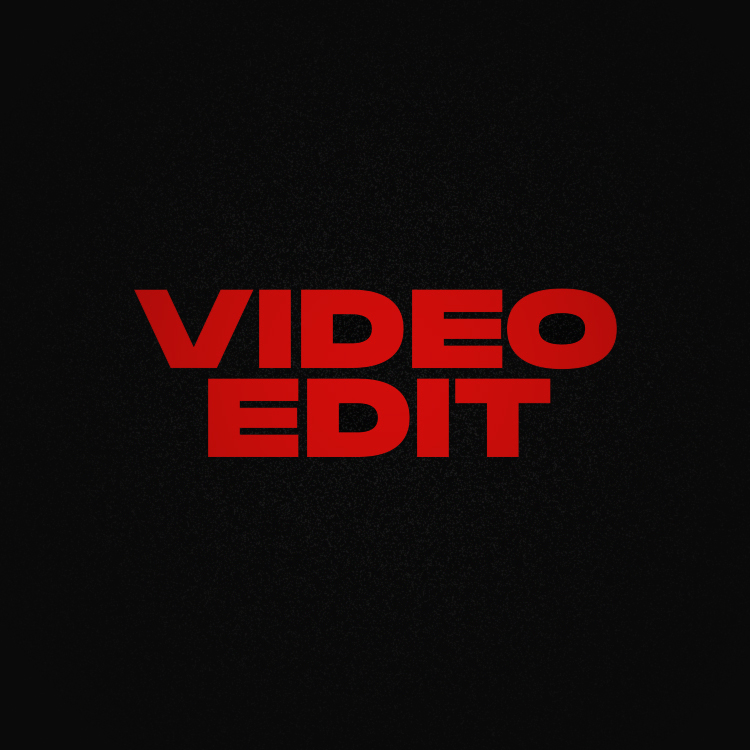
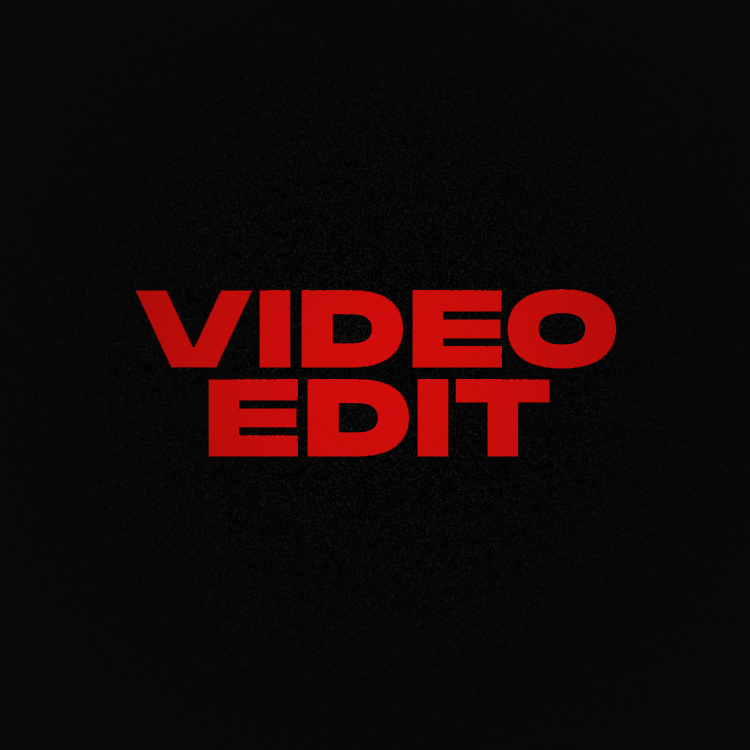
Redesign Contact page and refine footer, flash and portrait treatment

diff --git a/contact.html b/contact.html
@@ -41,9 +41,10 @@
   <link rel="canonical" href="https://heif.work/contact.html">
   <meta property="og:url" content="https://heif.work/contact.html">
   <link rel="stylesheet" href="assets/css/print.css?v=20261108-1" media="print">
-<link rel="stylesheet" href="assets/css/brand-motion.css?v=20261110-3">
+<link rel="stylesheet" href="assets/css/brand-motion.css?v=20261110-4">
 <link rel="preload" href="assets/fonts-web/embolism-spark.ttf" as="font" type="font/ttf" crossorigin>
 <script>document.documentElement.classList.add('brand-loading');setTimeout(function(){document.documentElement.classList.remove('brand-loading');},1800);</script>
+<link rel="stylesheet" href="assets/css/contact-studio.css?v=20261110-1">
 </head>
 
 <body>
@@ -83,47 +84,37 @@
 	</header>
 
 	<!-- Main Content -->
-	<main id="main-content">
-		<section class="contact-section" aria-labelledby="contact-heading">
-			<div class="container">
-				<h1 id="contact-heading" class="contact-title">CONTACT US</h1>
-				<div class="contact-grid">
-					<div class="contact-item glass-card">
-						<div class="icon-box">
-							<svg viewBox="0 0 24 24" fill="currentColor" aria-hidden="true" width="24" height="24">
-								<path
-									d="M12 2C8.13 2 5 5.13 5 9c0 5.25 7 13 7 13s7-7.75 7-13c0-3.87-3.13-7-7-7zm0 9.5c-1.38 0-2.5-1.12-2.5-2.5s1.12-2.5 2.5-2.5 2.5 1.12 2.5 2.5-1.12 2.5-2.5 2.5z" />
-							</svg>
-						</div>
-						<h2 class="contact-card-heading">Address</h2>
-						<p>Bhat, Ahmedabad, Gujarat, India</p>
-					</div>
-					<div class="contact-item glass-card">
-						<div class="icon-box">
-							<svg viewBox="0 0 24 24" fill="currentColor" aria-hidden="true" width="24" height="24">
-								<path
-									d="M20.01 15.38c-1.23 0-2.42-.2-3.53-.56-.35-.12-.74-.03-1.01.24l-1.57 1.97c-2.83-1.35-5.48-3.9-6.89-6.83l1.95-1.66c.27-.28.35-.67.24-1.02-.37-1.11-.56-2.3-.56-3.53 0-.54-.45-.99-.99-.99H4.19C3.65 3 3 3.24 3 3.99 3 13.28 10.73 21 20.01 21c.71 0 .99-.63.99-1.18v-3.45c0-.54-.45-.99-.99-.99z" />
-							</svg>
-						</div>
-						<h2 class="contact-card-heading">Call Us</h2>
-						<p><a href="tel:+919313113583">+91 9313113583</a><br><a href="tel:+917265804245">+91
-								7265804245</a></p>
-					</div>
-					<div class="contact-item glass-card">
-						<div class="icon-box">
-							<svg viewBox="0 0 24 24" fill="currentColor" aria-hidden="true" width="24" height="24">
-								<path
-									d="M20 4H4c-1.1 0-1.99.9-1.99 2L2 18c0 1.1.9 2 2 2h16c1.1 0 2-.9 2-2V6c0-1.1-.9-2-2-2zm0 4l-8 5-8-5V6l8 5 8-5v2z" />
-							</svg>
-						</div>
-						<h2 class="contact-card-heading">Send Your Mail</h2>
-						<p><a href="mailto:himuxgaming91@gmail.com">himuxgaming91@gmail.com</a><br><a
-								href="mailto:himalayeditor@gmail.com">himalayeditor@gmail.com</a></p>
-					</div>
-				</div>
-			</div>
-		</section>
-	</main>
+	<main id="main-content" class="contact-studio">
+  <section class="contact-compose" aria-labelledby="contact-heading">
+    <div class="contact-story reveal">
+      <p class="contact-eyebrow"><span></span> CONTACT / HEIF</p>
+      <h1 id="contact-heading">MAKE IT<br><em>HAPPEN</em></h1>
+      <p class="contact-lead">Your next idea deserves<br>a different point of view.</p>
+      <p class="contact-copy">A new release, a brand in the making, or a visual that needs a little more feeling. Tell me what you have in mind.</p>
+      <div class="contact-disciplines" aria-label="Creative services"><span>Design</span><span>Motion</span><span>Visuals</span></div>
+    </div>
+    <div class="contact-channels reveal">
+      <a class="contact-email" href="mailto:himalayeditor@gmail.com">
+        <span class="contact-channel-label">01 / START A CONVERSATION</span>
+        <span class="contact-email-line">himalayeditor@gmail.com <span class="contact-arrow"><svg viewBox="0 0 24 24" width="24" height="24" fill="none" stroke="currentColor" stroke-width="1.5" stroke-linecap="round" stroke-linejoin="round" aria-hidden="true"><path d="M5 19 19 5M5 5h14v14"/></svg></span></span>
+        <span class="contact-channel-note">Send your idea. Let’s build something together.</span>
+      </a>
+      <div class="contact-channel-row">
+        <h2>02 / CALL ME</h2>
+        <div><a href="tel:+919313113583">+91 93131 13583 <svg viewBox="0 0 24 24" width="24" height="24" fill="none" stroke="currentColor" stroke-width="1.5" stroke-linecap="round" stroke-linejoin="round" aria-hidden="true"><path d="M5 19 19 5M5 5h14v14"/></svg></a><a href="tel:+917265804245">+91 72658 04245 <svg viewBox="0 0 24 24" width="24" height="24" fill="none" stroke="currentColor" stroke-width="1.5" stroke-linecap="round" stroke-linejoin="round" aria-hidden="true"><path d="M5 19 19 5M5 5h14v14"/></svg></a></div>
+      </div>
+      <div class="contact-channel-row">
+        <h2>03 / FIND ME</h2>
+        <div><p>Bhat, Ahmedabad<br><span>Gujarat, India</span></p><a class="contact-social" href="https://www.instagram.com/wdym.heif/" target="_blank" rel="noopener noreferrer">Instagram <svg viewBox="0 0 24 24" width="24" height="24" fill="none" stroke="currentColor" stroke-width="1.5" stroke-linecap="round" stroke-linejoin="round" aria-hidden="true"><path d="M5 19 19 5M5 5h14v14"/></svg></a></div>
+      </div>
+      <div class="contact-secondary"><span>Alternate email</span><a href="mailto:himuxgaming91@gmail.com">himuxgaming91@gmail.com <svg viewBox="0 0 24 24" width="24" height="24" fill="none" stroke="currentColor" stroke-width="1.5" stroke-linecap="round" stroke-linejoin="round" aria-hidden="true"><path d="M5 19 19 5M5 5h14v14"/></svg></a></div>
+    </div>
+  </section>
+  <section class="contact-brief reveal" aria-labelledby="brief-heading">
+    <h2 id="brief-heading">A little context.<br><span>A better beginning.</span></h2>
+    <p><span>01</span> What are we creating?</p><p><span>02</span> Your timeline &amp; budget</p><p><span>03</span> References you love</p>
+  </section>
+</main>
 
 	<!-- Footer -->
 	<footer class="footer site-footer" role="contentinfo">
@@ -135,7 +126,7 @@
         </div>
         <div class="footer-action">
           <p>Design, motion &amp; visuals.<br>Bring your idea. Let's make it happen.</p>
-          <a class="footer-project-link" href="contact.html">Start a project <svg class="ui-arrow" viewBox="0 0 24 24" width="20" height="20" fill="none" stroke="currentColor" stroke-width="1.8" stroke-linecap="round" stroke-linejoin="round" aria-hidden="true" focusable="false"><path d="M7 17 17 7M7 7h10v10"/></svg></a>
+          <a class="footer-project-link" href="mailto:himalayeditor@gmail.com">Start a project <svg class="ui-arrow" viewBox="0 0 24 24" width="20" height="20" fill="none" stroke="currentColor" stroke-width="1.8" stroke-linecap="round" stroke-linejoin="round" aria-hidden="true" focusable="false"><path d="M7 17 17 7M7 7h10v10"/></svg></a>
         </div>
       </div>
       <div class="footer-details">

diff --git a/assets/css/contact-studio.css b/assets/css/contact-studio.css
@@ -1,0 +1,58 @@
+
+.contact-studio { position:relative; z-index:1; width:min(1200px,calc(100% - 64px)); margin:0 auto; padding:100px 0 64px; }
+.contact-compose { display:grid; grid-template-columns:1fr 1fr; gap:clamp(40px,7vw,100px); align-items:start; }
+.contact-eyebrow { display:flex; align-items:center; gap:10px; margin:0 0 30px; color:#a7b6ab; font:600 11px/1.4 'Josefin Sans',sans-serif; letter-spacing:.19em; }
+.contact-eyebrow span { width:6px; height:6px; border-radius:50%; background:#1ec24d; }
+.contact-story h1 { margin:0; color:#f1f6f2; font:400 clamp(36px,4.3vw,60px)/1.08 'Phonk Contrast',sans-serif; letter-spacing:-.035em; }
+.contact-story h1 em { display:inline-block; color:#1ec24d; font-style:normal; }
+.contact-lead { margin:28px 0 14px; color:#e8eee9; font-size:25px; line-height:1.3; }
+.contact-copy { max-width:390px; margin:0; color:#9caaa0; font-size:16px; line-height:1.8; }
+.contact-disciplines { display:flex; flex-wrap:wrap; gap:22px; margin-top:30px; color:#8ca693; font-size:12px; letter-spacing:.08em; text-transform:uppercase; }
+.contact-disciplines span+span::before { content:'/'; margin-right:22px; color:#1ec24d; }
+.contact-channels { min-width:0; padding-top:8px; }
+.contact-channels a { text-decoration:none; color:#edf4ef; transition:color .25s ease; }
+.contact-channels a:hover { color:#1ec24d; }
+.contact-channels a:focus-visible { outline:2px solid #1ec24d; outline-offset:6px; }
+.contact-email { display:block; padding:26px 26px 28px; border-radius:12px; background:#102318; border:1px solid #284733; }
+.contact-channel-label,.contact-channel-row h2 { font:600 10px/1.5 'Josefin Sans',sans-serif; letter-spacing:.13em; color:#82bb92; }
+.contact-email-line { display:flex; align-items:center; justify-content:space-between; gap:10px; margin:19px 0 12px; font-size:clamp(17px,1.8vw,24px); font-weight:600; letter-spacing:-.03em; }
+.contact-arrow { display:grid; place-items:center; flex:none; width:40px; height:40px; border-radius:50%; background:#1ec24d; color:#07110a; transition:transform .3s ease; }
+.contact-email:hover .contact-arrow { transform:rotate(45deg); }
+.contact-channel-note { display:block; color:#a1b4a7; font-size:13px; line-height:1.6; }
+.contact-channel-row { display:grid; grid-template-columns:1fr 1.6fr; gap:20px; padding:27px 0; border-bottom:1px solid #26322a; }
+.contact-channel-row h2 { margin:4px 0 0; color:#8d9d92; }
+.contact-channel-row a { display:flex; justify-content:space-between; align-items:center; gap:12px; min-height:34px; font-size:18px; }
+.contact-channel-row svg,.contact-secondary svg { width:15px; height:15px; flex:none; color:#7e9b87; transition:transform .25s ease; }
+.contact-channel-row a:hover svg,.contact-secondary a:hover svg { transform:translate(2px,-2px); }
+.contact-channel-row p { margin:0 0 10px; font-size:18px; line-height:1.55; color:#e0e9e3; }
+.contact-channel-row p span { color:#98a69c; font-size:15px; }
+.contact-channel-row .contact-social { font-size:14px; color:#95d5a7; }
+.contact-secondary { display:flex; flex-wrap:wrap; justify-content:space-between; gap:10px; margin-top:20px; font-size:12px; color:#84978a; }
+.contact-secondary a { display:flex; gap:10px; align-items:center; color:#aabcb0; }
+.contact-brief { display:grid; grid-template-columns:1.25fr 1fr 1fr 1fr; gap:24px; align-items:center; border-top:1px solid #29342d; padding-top:28px; margin-top:70px; }
+.contact-brief h2 { margin:0; font-size:18px; font-weight:600; line-height:1.45; color:#e9f0eb; }
+.contact-brief h2 span { color:#84988b; font-weight:400; }
+.contact-brief p { margin:0; color:#bdc9c1; font-size:14px; line-height:1.5; }
+.contact-brief p>span { display:block; margin-bottom:9px; color:#1ec24d; font-size:11px; }
+@media(max-width:900px) { .contact-compose { gap:36px; } .contact-email { padding:20px; } .contact-email-line { flex-wrap:wrap; } .contact-brief { grid-template-columns:1fr 1fr; } }
+@media(max-width:680px) {
+ .contact-studio { width:calc(100% - 40px); padding:90px 0 30px; }
+ .contact-compose { grid-template-columns:1fr; gap:38px; }
+ .contact-eyebrow { margin-bottom:22px; }
+ .contact-story h1 { font-size:clamp(32px,8.4vw,48px); }
+ .contact-lead { font-size:22px; margin-top:23px; }
+ .contact-copy { font-size:15px; }
+ .contact-disciplines { margin-top:22px; }
+ .contact-email-line { flex-wrap:nowrap; font-size:clamp(15px,4.4vw,21px); }
+ .contact-arrow { width:32px; height:32px; }
+ .contact-arrow svg { width:18px; height:18px; }
+ .contact-email { padding:20px 16px; }
+ .contact-channel-row { grid-template-columns:.8fr 1.5fr; gap:12px; padding:24px 0; }
+ .contact-channel-row a,.contact-channel-row p { font-size:16px; }
+ .contact-brief { margin-top:40px; gap:24px 16px; }
+ .contact-brief h2 { grid-column:1/-1; }
+ .contact-brief p { font-size:13px; }
+}
+@media(prefers-reduced-motion:reduce) { .contact-channels a,.contact-channels svg,.contact-arrow { transition:none; } }
+
+.contact-studio, .contact-studio h1, .contact-studio h2, .contact-studio p { text-align:left; }

diff --git a/index.html b/index.html
@@ -41,7 +41,7 @@
   <link rel="canonical" href="https://heif.work/">
   <meta property="og:url" content="https://heif.work/">
   <link rel="stylesheet" href="assets/css/print.css?v=20261108-1" media="print">
-<link rel="stylesheet" href="assets/css/brand-motion.css?v=20261110-3">
+<link rel="stylesheet" href="assets/css/brand-motion.css?v=20261110-4">
 <link rel="preload" href="assets/fonts-web/embolism-spark.ttf" as="font" type="font/ttf" crossorigin>
 <script>document.documentElement.classList.add('brand-loading');setTimeout(function(){document.documentElement.classList.remove('brand-loading');},1800);</script>
 </head>
@@ -163,8 +163,8 @@
         </a>
       </div>
       <div class="thumbnail">
-        <a href="work-detailvideowork.html"><img src="assets/optimized/category-video-20261110c-750.webp"
-            alt="Video editing portfolio showcase" loading="lazy" decoding="async" srcset="assets/optimized/category-video-20261110c-480.webp 480w, assets/optimized/category-video-20261110c-750.webp 750w" sizes="(max-width: 600px) 100vw, (max-width: 1024px) 50vw, 33vw" width="750" height="750" />
+        <a href="work-detailvideowork.html"><img src="assets/optimized/category-video-20261110d-750.webp"
+            alt="Video editing portfolio showcase" loading="lazy" decoding="async" srcset="assets/optimized/category-video-20261110d-480.webp 480w, assets/optimized/category-video-20261110d-750.webp 750w" sizes="(max-width: 600px) 100vw, (max-width: 1024px) 50vw, 33vw" width="750" height="750" />
           <div class="caption">VIDEO EDITING</div>
         </a>
       </div>

diff --git a/work.html b/work.html
@@ -42,7 +42,7 @@
   <link rel="canonical" href="https://heif.work/work.html">
   <meta property="og:url" content="https://heif.work/work.html">
   <link rel="stylesheet" href="assets/css/print.css?v=20261108-1" media="print">
-<link rel="stylesheet" href="assets/css/brand-motion.css?v=20261110-3">
+<link rel="stylesheet" href="assets/css/brand-motion.css?v=20261110-4">
 <link rel="preload" href="assets/fonts-web/embolism-spark.ttf" as="font" type="font/ttf" crossorigin>
 <script>document.documentElement.classList.add('brand-loading');setTimeout(function(){document.documentElement.classList.remove('brand-loading');},1800);</script>
 </head>
@@ -125,8 +125,8 @@
             </div>
             <div class="thumbnail">
                 <a href="work-detailvideowork.html">
-                    <img src="assets/optimized/category-video-20261110c-750.webp" alt="Video Editing Portfolio" loading="lazy"
-                        decoding="async" srcset="assets/optimized/category-video-20261110c-480.webp 480w, assets/optimized/category-video-20261110c-750.webp 750w" sizes="(max-width: 1024px) 50vw, 33vw" width="750" height="750">
+                    <img src="assets/optimized/category-video-20261110d-750.webp" alt="Video Editing Portfolio" loading="lazy"
+                        decoding="async" srcset="assets/optimized/category-video-20261110d-480.webp 480w, assets/optimized/category-video-20261110d-750.webp 750w" sizes="(max-width: 1024px) 50vw, 33vw" width="750" height="750">
                     <div class="caption">VIDEO EDITING</div>
                 </a>
             </div>

diff --git a/about.html b/about.html
@@ -43,14 +43,15 @@
   <link rel="canonical" href="https://heif.work/about.html">
   <meta property="og:url" content="https://heif.work/about.html">
   <link rel="stylesheet" href="assets/css/print.css?v=20261108-1" media="print">
-<link rel="stylesheet" href="assets/css/brand-motion.css?v=20261110-3">
+<link rel="stylesheet" href="assets/css/brand-motion.css?v=20261110-4">
 <link rel="preload" href="assets/fonts-web/embolism-spark.ttf" as="font" type="font/ttf" crossorigin>
 <script>document.documentElement.classList.add('brand-loading');setTimeout(function(){document.documentElement.classList.remove('brand-loading');},1800);</script>
 <style>
 .about-layout .about-portrait { max-width:380px; }
 @media(max-width:768px) { .about-layout .about-portrait { width:90%; max-width:300px; } }
-.about-video-frame { display:block; width:100%; overflow:hidden; border-radius:8px; clip-path:none; }
+.about-video-frame { position:relative; isolation:isolate; display:block; width:100%; overflow:hidden; border-radius:8px; clip-path:none; }
 .about-video-frame .about-profile-video { display:block; width:100%; height:auto; max-height:none; margin:0; border:0; border-radius:0; object-fit:contain; cursor:pointer; }
+.about-video-frame::after { content:""; position:absolute; inset:0; border-radius:inherit; background:url("assets/img/portrait-grain.png") repeat; opacity:.08; mix-blend-mode:soft-light; pointer-events:none; }
 .about-profile-video:focus-visible { outline:2px solid #1ec24d; outline-offset:-4px; }
 </style>
 </head>

diff --git a/assets/css/brand-motion.css b/assets/css/brand-motion.css
@@ -37,7 +37,7 @@ body > header nav ul li a:has(.nav-label) { position:relative; }
 .hub-links>a:nth-child(5) { --link-phase:-4.4s; }
 .hub-links>a:nth-child(6) { --link-phase:-5.5s; }
 @media(prefers-reduced-motion:no-preference) {
- .hub-profile-in-view .camera-flash { animation:camera-snap 1.5s ease-in-out infinite; }
+ .hub-profile-in-view .camera-flash { animation:camera-snap 2s ease-in-out infinite; }
  .hub-name-in-view .hub-name-accent { animation:hub-name-sheen 5s ease-in-out infinite,hub-heif-wiggle 3.6s ease-in-out infinite; transform-origin:50% 65%; }
  .hub-links-in-view>a::before { animation:hub-link-sweep 7s linear var(--link-phase,0s) infinite; }
  .hub-links-in-view>a>.ui-arrow,.hub-links-in-view .hub-featured-arrow .ui-arrow { animation:hub-arrow-flow 3.6s ease-in-out var(--link-phase,0s) infinite; }
@@ -70,3 +70,7 @@ body > header nav ul li a:has(.nav-label) { position:relative; }
 @media(prefers-reduced-motion:reduce) { .brand-loader { display:none; } }
 
 @media(max-width:768px) { .brand-loader picture { width:min(38vw,140px); } }
+
+/* Center the identity as a unit inside its footer column. */
+.footer-identity { display:flex; flex-direction:column; justify-content:center; align-items:center; text-align:center; }
+.footer-identity .footer-profession { justify-content:center; width:100%; padding:0; border-left:0; }

diff --git a/work-detailmanipulation.html b/work-detailmanipulation.html
@@ -43,7 +43,7 @@
   <link rel="canonical" href="https://heif.work/work-detailmanipulation.html">
   <meta property="og:url" content="https://heif.work/work-detailmanipulation.html">
   <link rel="stylesheet" href="assets/css/print.css?v=20261108-1" media="print">
-<link rel="stylesheet" href="assets/css/brand-motion.css?v=20261110-3">
+<link rel="stylesheet" href="assets/css/brand-motion.css?v=20261110-4">
 <link rel="preload" href="assets/fonts-web/embolism-spark.ttf" as="font" type="font/ttf" crossorigin>
 <script>document.documentElement.classList.add('brand-loading');setTimeout(function(){document.documentElement.classList.remove('brand-loading');},1800);</script>
 </head>

diff --git a/work-detailphotography.html b/work-detailphotography.html
@@ -32,7 +32,7 @@
   <link rel="canonical" href="https://heif.work/work-detailphotography.html">
   <meta property="og:url" content="https://heif.work/work-detailphotography.html">
   <link rel="stylesheet" href="assets/css/print.css?v=20261108-1" media="print">
-<link rel="stylesheet" href="assets/css/brand-motion.css?v=20261110-3">
+<link rel="stylesheet" href="assets/css/brand-motion.css?v=20261110-4">
 <link rel="preload" href="assets/fonts-web/embolism-spark.ttf" as="font" type="font/ttf" crossorigin>
 <script>document.documentElement.classList.add('brand-loading');setTimeout(function(){document.documentElement.classList.remove('brand-loading');},1800);</script>
 </head>

diff --git a/work-detailvideowork.html b/work-detailvideowork.html
@@ -44,7 +44,7 @@
   <link rel="canonical" href="https://heif.work/work-detailvideowork.html">
   <meta property="og:url" content="https://heif.work/work-detailvideowork.html">
   <link rel="stylesheet" href="assets/css/print.css?v=20261108-1" media="print">
-<link rel="stylesheet" href="assets/css/brand-motion.css?v=20261110-3">
+<link rel="stylesheet" href="assets/css/brand-motion.css?v=20261110-4">
 <link rel="preload" href="assets/fonts-web/embolism-spark.ttf" as="font" type="font/ttf" crossorigin>
 <script>document.documentElement.classList.add('brand-loading');setTimeout(function(){document.documentElement.classList.remove('brand-loading');},1800);</script>
 </head>

diff --git a/work-detailclothing.html b/work-detailclothing.html
@@ -42,7 +42,7 @@
   <link rel="canonical" href="https://heif.work/work-detailclothing.html">
   <meta property="og:url" content="https://heif.work/work-detailclothing.html">
   <link rel="stylesheet" href="assets/css/print.css?v=20261108-1" media="print">
-<link rel="stylesheet" href="assets/css/brand-motion.css?v=20261110-3">
+<link rel="stylesheet" href="assets/css/brand-motion.css?v=20261110-4">
 <link rel="preload" href="assets/fonts-web/embolism-spark.ttf" as="font" type="font/ttf" crossorigin>
 <script>document.documentElement.classList.add('brand-loading');setTimeout(function(){document.documentElement.classList.remove('brand-loading');},1800);</script>
 </head>

diff --git a/work-detailgraphics.html b/work-detailgraphics.html
@@ -42,7 +42,7 @@
   <link rel="canonical" href="https://heif.work/work-detailgraphics.html">
   <meta property="og:url" content="https://heif.work/work-detailgraphics.html">
   <link rel="stylesheet" href="assets/css/print.css?v=20261108-1" media="print">
-<link rel="stylesheet" href="assets/css/brand-motion.css?v=20261110-3">
+<link rel="stylesheet" href="assets/css/brand-motion.css?v=20261110-4">
 <link rel="preload" href="assets/fonts-web/embolism-spark.ttf" as="font" type="font/ttf" crossorigin>
 <script>document.documentElement.classList.add('brand-loading');setTimeout(function(){document.documentElement.classList.remove('brand-loading');},1800);</script>
 </head>

diff --git a/work-detailgrading.html b/work-detailgrading.html
@@ -42,7 +42,7 @@
   <link rel="canonical" href="https://heif.work/work-detailgrading.html">
   <meta property="og:url" content="https://heif.work/work-detailgrading.html">
   <link rel="stylesheet" href="assets/css/print.css?v=20261108-1" media="print">
-<link rel="stylesheet" href="assets/css/brand-motion.css?v=20261110-3">
+<link rel="stylesheet" href="assets/css/brand-motion.css?v=20261110-4">
 <link rel="preload" href="assets/fonts-web/embolism-spark.ttf" as="font" type="font/ttf" crossorigin>
 <script>document.documentElement.classList.add('brand-loading');setTimeout(function(){document.documentElement.classList.remove('brand-loading');},1800);</script>
 </head>
